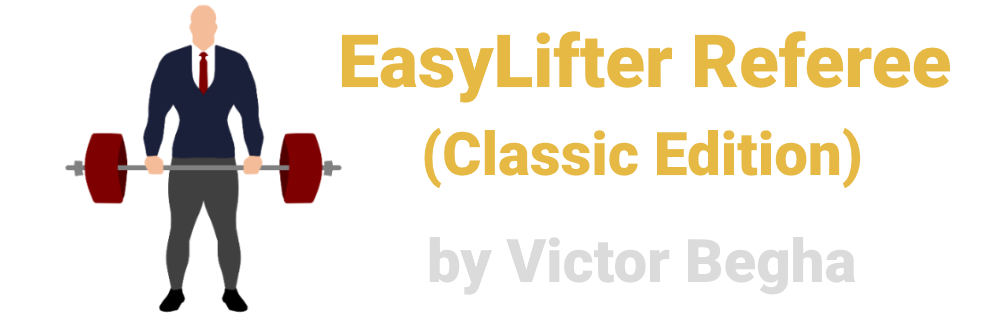
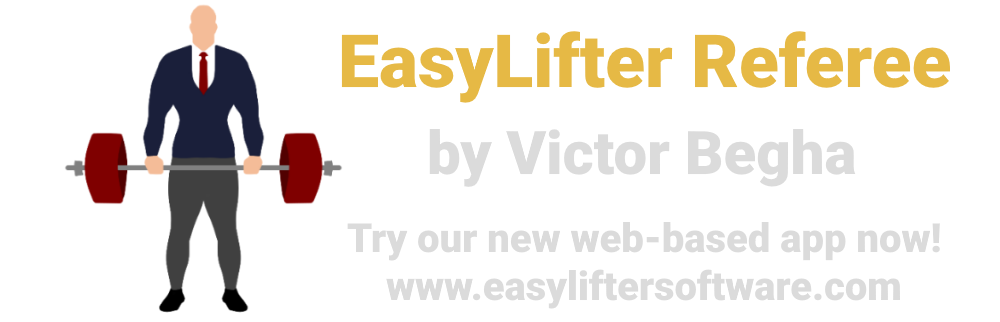
ReadMe update

Changed region(s): [[0.341, 0.6832, 0.961, 0.9627], [0.403, 0.4037, 0.868, 0.5901]]

diff --git a/README.md b/README.md
@@ -5,6 +5,24 @@ Check out our new and improved referee lights system at https://easyliftersoftwa
 
 This repository will remain here for archival purposes.
 
+
+<div style="text-align: center">
+<img src="assets/BannerGit.png" alt="EasyLifter Referee - Open Source Software for Powerlifting - by Victor Begha" style="max-height: 150px" />
+</div>
+
+## Why you should use the new web-based EasyLifter Referee:
+
+* Fast & Intuitive: A clean, simple interface built so referees and meet directors can focus on the competition.
+
+* No Installation Needed: 100% web-based. Just open your browser and you're ready to go - no downloads, no setup.
+
+* Built for Real Meets: Designed by lifters and referees, with real-world needs in mind: practical, reliable, and competition-ready.
+
+* High-Level Presentation: More clarity for the audience, more confidence for the athletes. Give your event a professional look.
+
+Check out for yourself at https://easyliftersoftware.com/! If you want to learn more about the project, you can also contact me directly at victorbegha.dev@gmail.com.
+
+
 <br><br><br><br><br>
 <br><br><br><br><br>
 
@@ -12,10 +30,6 @@ This repository will remain here for archival purposes.
 
 
 <div style="text-align: justify">
-
-<div style="text-align: center">
-<img src="assets/BannerGit.png" alt="EasyLifter Referee - Open Source Software for Powerlifting - by Victor Begha" style="max-height: 150px" />
-</div>
 
 EasyLifter Referee (Classic Edition) is the original open source version of <a href="https://easyliftersoftware.com/">our powerlifting referee lights system</a>. For the modern, fully featured version, please visit our website!
 
@@ -35,29 +49,13 @@ On the other hand, there are commercial hardware solutions with remote controlle
 
 On April 2024, I became a national powerlifting referee for my country's IPF affiliate, and I started working on this system initially just to improve meet presentation locally. But I quickly realized the sport needs more accessible tools for organizing and running competitions; there's already a lot of expensive equipment involved in strength sports, and when you have to pay out hundreds of dollars just for a decent way to show something as simple as referee decisions, something needs to change. So I hope to contribute positively by creating useful software for all things powerlifting, not just refereeing, but eventually other aspects of the sport as well.
 
-## Getting Started
-
-EasyLifter Referee (Classic Edition) has two main components: a desktop app, and a router built with an ESP32 module.
-
-You need to install NodeJS (recommended version 18 or higher) and run `npm install` then `npm run start` on the 'app-electron' folder.
-
-For the router, all you need is an ESP32 NodeMCU module, which you can find for cheap on many online stores. Afterwards, you will need to:
-
-- Install CP210x drivers on your computer to allow Windows to recognize it when connected by USB;
-
-- Generate the code with your choosen language and network credentials, using the 'inoCodeGenerator' tool;
-
-- Load the router code through the Arduino IDE.
-
-Once you have the desktop app running and the router set up, all you have to do is connect the router to your computer with an USB cable. The desktop app will then explain how to connect the referees' phones to the system and use the simple, intuitive web app to select their decisions for each lift.
-
 ## Roadmap
 
 - [x] Fully working lights system with desktop app, ESP32 router and mobile webpage.
 - [x] Main timer for the competition, plus individual countdowns for informing the next attempts.
 - [x] ESP8266 compatibility (so the router can be built either with an ESP32 or an ESP8266).
 
-More features are available in our web-based version!
+More features are available in our web-based version! Check out https://easyliftersoftware.com/
 
 ## Author
 
